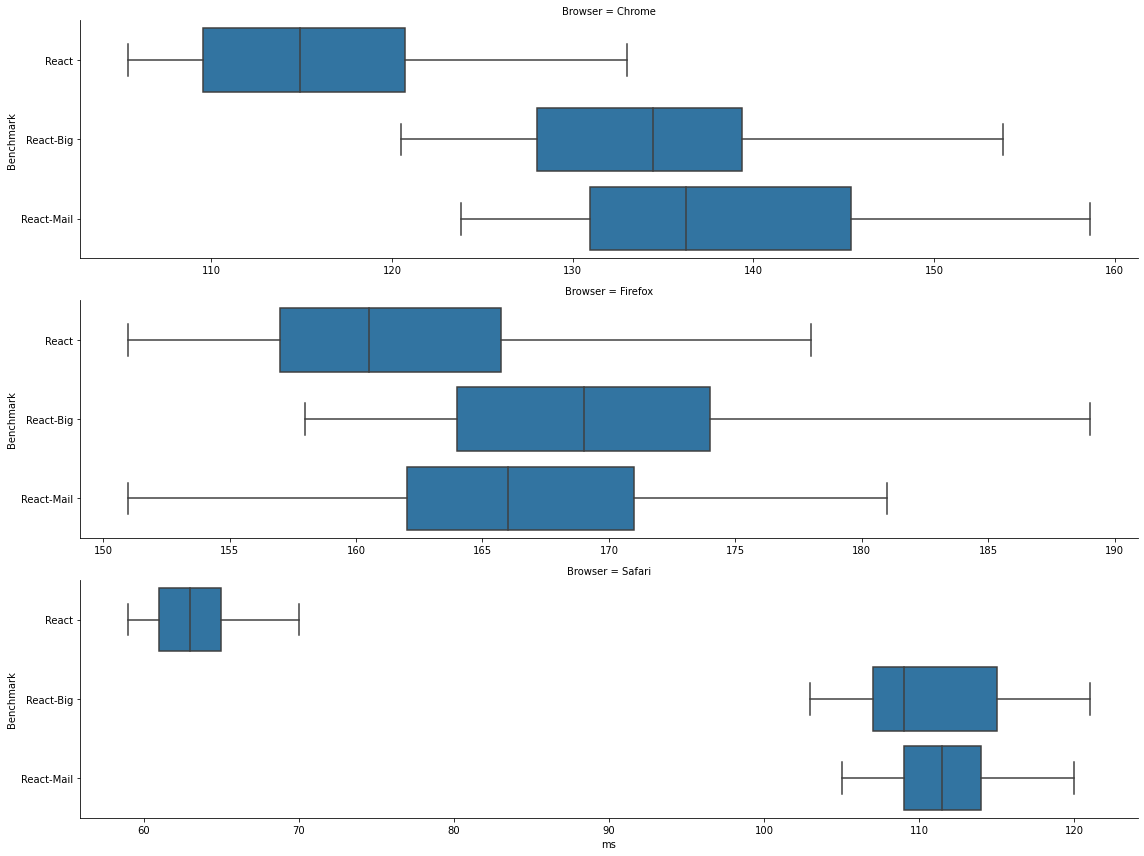
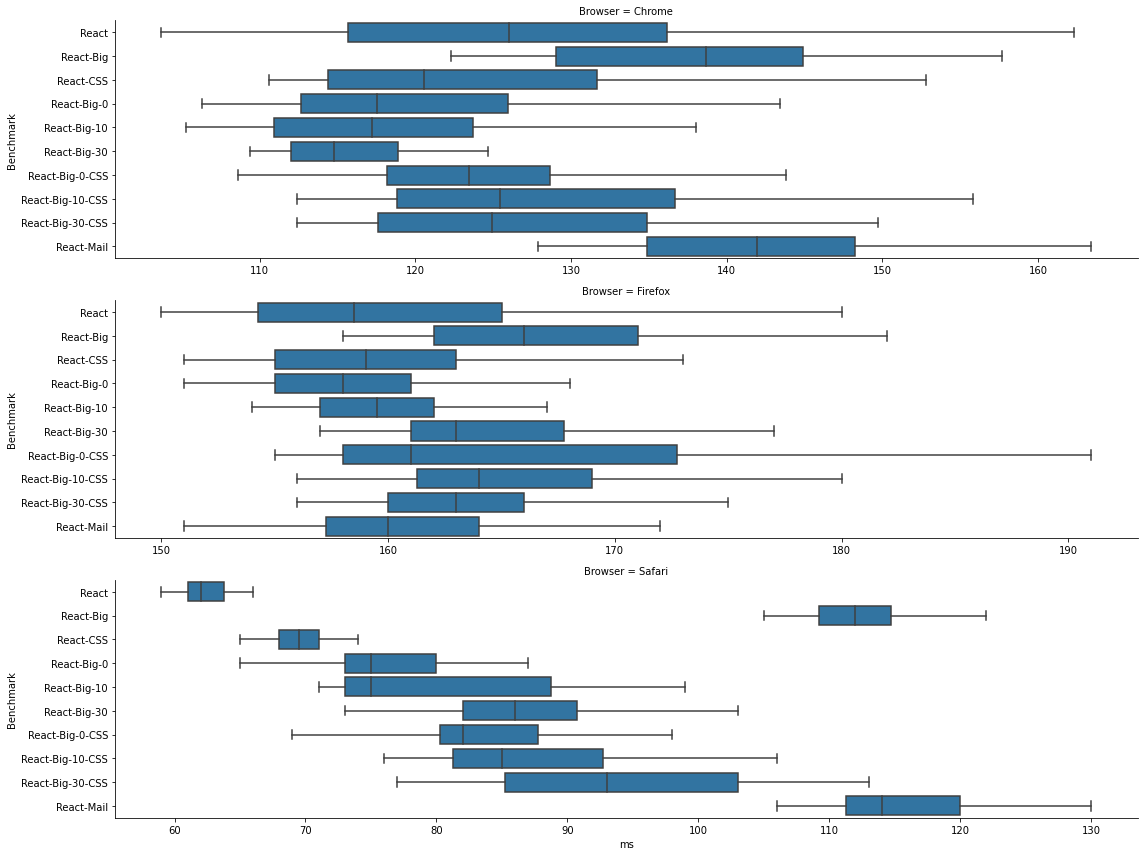
Updated Analysis

diff --git a/resources/tentative/complex-static-html/IMPACT_ANALYSIS.md b/resources/tentative/complex-static-html/IMPACT_ANALYSIS.md
@@ -1,39 +1,100 @@
 # Impact of embedding React-TodoMVC in a complex static HTML page.
 
+## Objective of this testing.
+
+To answer the question “Is there an impact on embedding TodoMVC-React in a static html page with a big DOM and complex CSS selectors?”. And use the results to generate a workload that encapsulates web app scalability challenges.
+
 ## Summary
 
-This is an impact analysis of the effect of embedding React-TodoMVC in a complex static HTML page. The comparisons in this page are between the following three workloads:
+Depending on the browser there is an impact on the TodoMVC performance caused by either the presence of a big DOM, the depth we chose for the embedded TodoMVC or the presence of complex CSS rules.
 
-* **TodoMVC-React**: The original TodoMVC-React benchmark.
-* **TodoMVC-React-Big**: The TodoMVC-React benchmark embedded in a big static HTML page.
-* **TodoMVC-React-Mail**: An earlier iteration of *TodoMVC-React-Big* built with different tooling, and which the group agreed was a good starting point for the workload.
+* Chrome: Small impact from having a big dom, there is impact from the depth we choose to embed the TodoMVC and the presence of CSS.
+* Firefox: There is impact from the presence of the big DOM, there is some impact from where we embed the TodoMVC, small impact caused by adding CSS.
+* Safari: Regressions in sync and async times. Impact caused by the presence of the big DOM and the presence of CSS. Some impact caused by where the TodoMVC is embedded.
 
-## Results and Conclusion
+## Why test for DOM size
+Modern applications DOMs are big. Some examples:
+* Outlook. elements: 2870, max depth: 32
+* Youtube. elements: 9082, max depth: 30
+* Teams. elements: 2542, max depth: 32
+* Google docs. elements: 3558, max depth: 15
+* Google sheets. elements: 5730 , max depth: 18
+* Slack: elements. 788, max depth: 36
+* Google search results: elements 2085, max depth:  42
 
-Each benchmark was ran 50 times on each browser. The following boxplots show the distribution of the results. The x-axis is miliseconds, the y-axis is the benchmark ran.
+## Why test for CSS selector complexity
+Complex selectors are used across popular webpages. Some examples:
+* Outlook:
+  * `.r9gx1vl:not(:checked) ~ .fui-Radio__indicator > *`
+  * `.f17xb19f > :not(.fui-CardPreview__logo)`
+  * `.root-726 *`
+  * `.appContainer-459 ::after`
+* Youtube:
+  * `.yt-core-attributed-string--highlight-text-decorator`
+  * `.yt-core-attributed-string__link--display-type`
+
+## Testing Steps
+
+1. Generate a big DOM and complex CSS and store them in .html and .css files.
+2. Create new versions of TodoMVC-React that render the TodoMVC component as children of a node in the generated html file and include the generated css file.
+
+## The testing DOMs
+
+Every DOM used for testing has a depth of approximately 40 nodes.
+
+The DOM used for testing the **React-Big** benchmark has approximately 3000 nodes, while the one used for the other "Big" variations has approximately 8000 nodes. 
+
+## The testing CSS
+
+Besides the corresponding rules for styling and layout, we add 400 generated complex selectors. These selectors are crafted to be triggered by adding a new item to the todo list (the right-most selector matches it). From them, half will have an effect on the item's color, and the other half will not match any item in the todo list.
+
+## Results
+
+We tested the following 10 benchmark variations:
+
+* *React*: The original TodoMVC-React benchmark.
+* **React-Big**: The TodoMVC-React benchmark embedded in a big static HTML page, the benchmark introduced in this PR.
+* *React-CSS*: The original TodoMVC-React benchmark with a lot of CSS rules.
+* *React-Big-{depth}(0,10,30)*: The TodoMVC-React benchmark embedded in a node of depth {depth} in a big static HTML page filled with buttons.
+* *React-Big-{depth}-CSS(0,10,30)*: The TodoMVC-React benchmark embedded in a node of depth {depth} in a big static HTML page filled with buttons, with extra CSS rules.
+* *React-Mail*: An earlier iteration of *TodoMVC-React-Big* built with different tooling, and which the group agreed was a good starting point for the workload.
+
+Each benchmark was ran 50 times on each browser. The following boxplots show the distribution of the results. The x-axis is milliseconds, the y-axis is the benchmark ran.
+
+### Total ms analysis
 
 <p align = "center" background-color="white">
 <img src="impact-analysis-images/boxplots.png" alt="boxplots" width="800"/>
 </p>
 
-There seems to be little to no difference between the *TodoMVC-React-Mail* and *TodoMVC-React-Big*. This is further confirmed by the statistically significat heatmaps below.
+A quick overview to these boxplots reveals that the different additions affect the different browsers differently. With **React-Big** and *React-Mail* having the biggest impact accross all browsers.
 
-> How to interpret the heatmaps: The heatmap shows the p-value of the mannWhitney test between the two benchmarks. A lighter color represents there is statistically signigicant evidence that the benchmark in {row} is faster than the benchmark in {column}.
+To dive deeper into the specifics of each test lets analyze the boxplots visualizations below
+
+> How to interpret the heatmaps: The heatmap shows the p-value of the mannWhitney test between the two benchmarks. A lighter color represents there is statistically significant evidence that the benchmark in {row} is faster than the benchmark in {column}.
 
 ### Chrome
 <p align = "center" background-color="white">
 <img src="impact-analysis-images/total-chrome.png" alt="heatmap-chrome" width="800"/>
 </p>
 
+On Chrome, there is an impact by embedding the TodoMVC in a big DOM plus a styles UI, like **React-Big** and *React-Mail* do. The differences between the variations of *React-Big-{depth}* and *React-Big-{depth}-CSS* suggest that the inclusions of the extra CSS rules also has a significant impact on performance.
+
 ### Firefox
 <p align = "center" background-color="white">
 <img src="impact-analysis-images/total-firefox.png" alt="heatmap-chrome" width="800"/>
 </p>
 
+On Firefox, the impact from *React-Mail* is not clear here, whereas the impact of **React-Big* is the clear. There seems to be an impact caused by the CSS and the size of the DOM too.
+
 ### Safari
 <p align = "center" background-color="white">
 <img src="impact-analysis-images/total-safari.png" alt="heatmap-chrome" width="800"/>
 </p>
+
+On Safari, the performance of the benchmark is impacted by every variation. The DOM size has an impact that is worsen when adding CSS.
+
+### Per-step analysis
 
 The benchmarks impact the different test steps differently for each browser, as we can see in the per-step heatmaps below.
 
@@ -42,12 +103,22 @@ The benchmarks impact the different test steps differently for each browser, as 
 <img src="impact-analysis-images/step-chrome.png" alt="heatmap-chrome" width="800"/>
 </p>
 
+On Chrome. Most of the impact comes from the Async portion of the benchmark. There seems to be no impact from the presence of the big DOM or where we embed the TodoMVC, but the impact from the CSS rules is clear.
+
 ### Firefox
 <p align = "center" background-color="white">
 <img src="impact-analysis-images/step-firefox.png" alt="heatmap-chrome" width="800"/>
 </p>
 
+On Firefox. The Async part is impacted by the presence of the big DOM, and the graph suggest that embedding the benchmark at a deeper level has a bigger impact on the Add step. The presence of CSS rules has an impact on the Async step.
+
 ### Safari
 <p align = "center" background-color="white">
 <img src="impact-analysis-images/step-safari.png" alt="heatmap-chrome" width="800"/>
 </p>
+
+On Safari. The impact is scattered across the Sync and Async parts and seems to be caused by combinations of the 3 factors: the presence of the big DOM, the depth of the embedding and the presence of CSS rules.
+
+## Conclusion
+
+The characteristics of the page where the todoMVC benchmark is executed have an impact on its performance. The places where the impact takes place vary from browser to browser, hence it is beneficial to have workloads like the one implemented in this folder, that will exemplify these problems in Speedometer 3.0.
